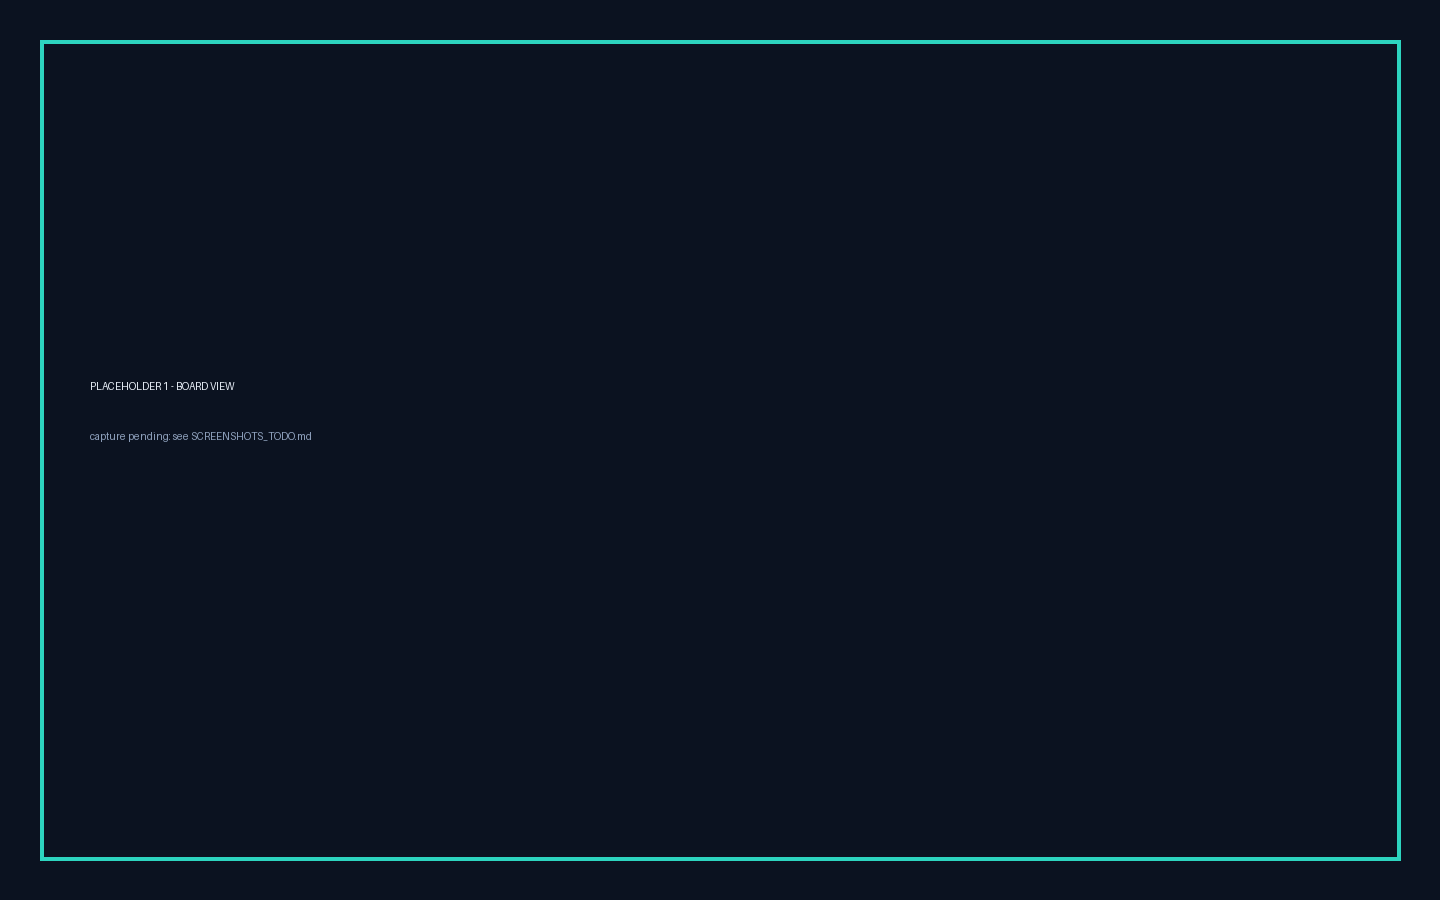
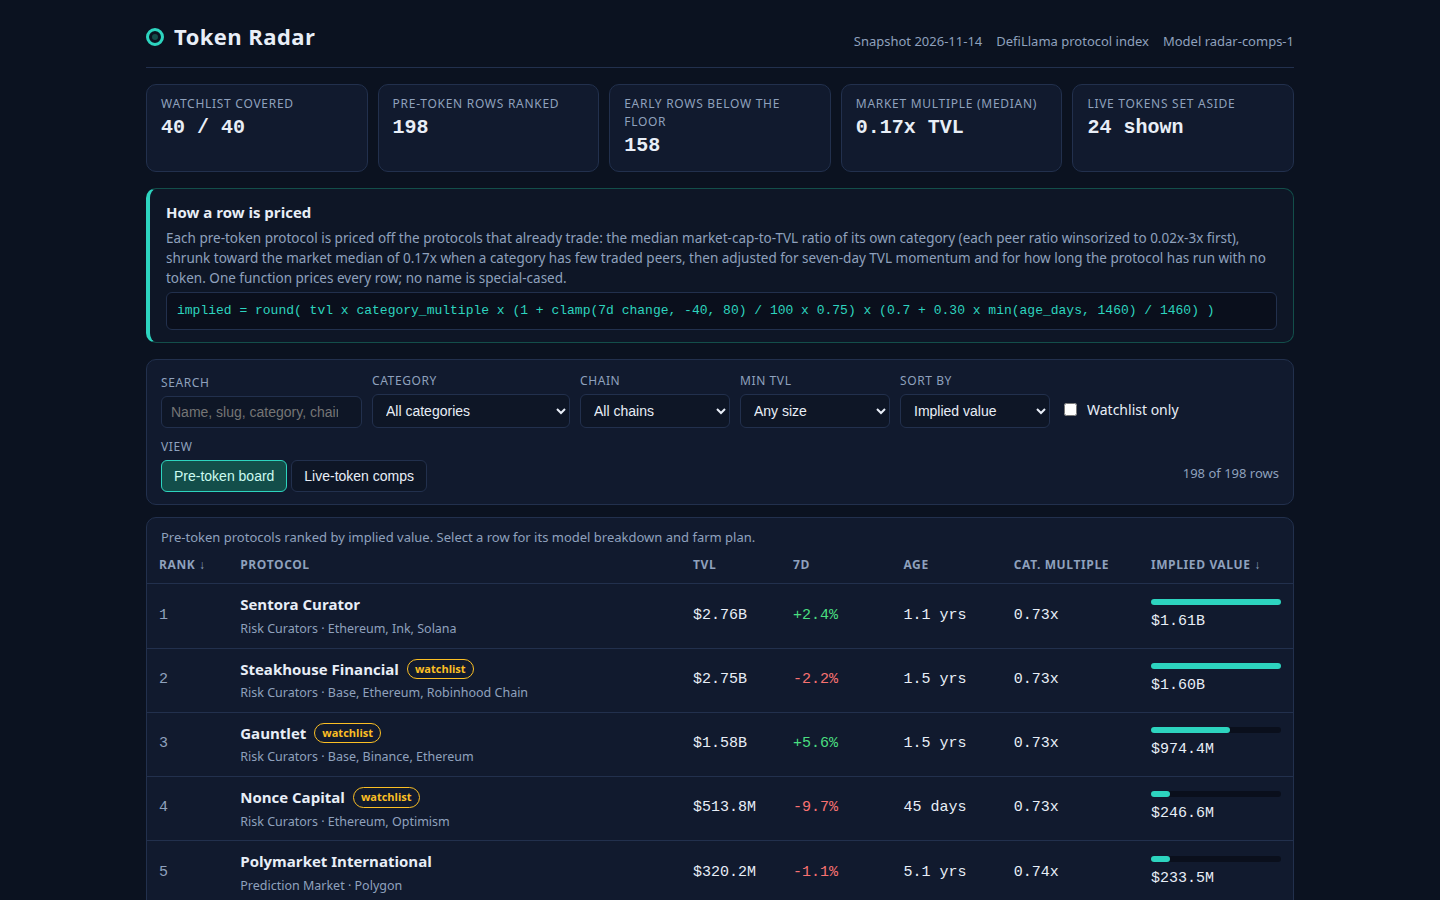
Replace placeholder screenshots with real dashboard captures

diff --git a/SCREENSHOTS_TODO.md b/SCREENSHOTS_TODO.md
@@ -1,7 +1,17 @@
-# Screenshots — TODO before submitting
+# Screenshots — DONE (2026-11-21)
 
-The three PNGs currently in `screenshots/` are PLACEHOLDERS (solid slate with a caption).
-They exist only so `main.ts` can run end to end locally. They must be replaced with real
+The three PNGs in `screenshots/` are now REAL captures of this dashboard, taken at
+1440x900 with a headless Chromium (board: no hash; detail: rank-1 row "Sentora Curator"
+clicked, panel scrolled into view; filtered: `#category=Dexs`, 21 of 198 rows).
+Sizes: 154 KB / 164 KB / 141 KB. `dossier.json` was rebuilt from these captures.
+The notes below are kept for reference in case a recapture is ever needed.
+
+---
+
+# Screenshots — how to capture (reference)
+
+The three PNGs previously in `screenshots/` were PLACEHOLDERS (solid slate with a caption).
+They existed only so `main.ts` could run end to end locally. They had to be replaced with real
 captures of this dashboard before any submission — the first screenshot is the entry's
 public cover image.
 
